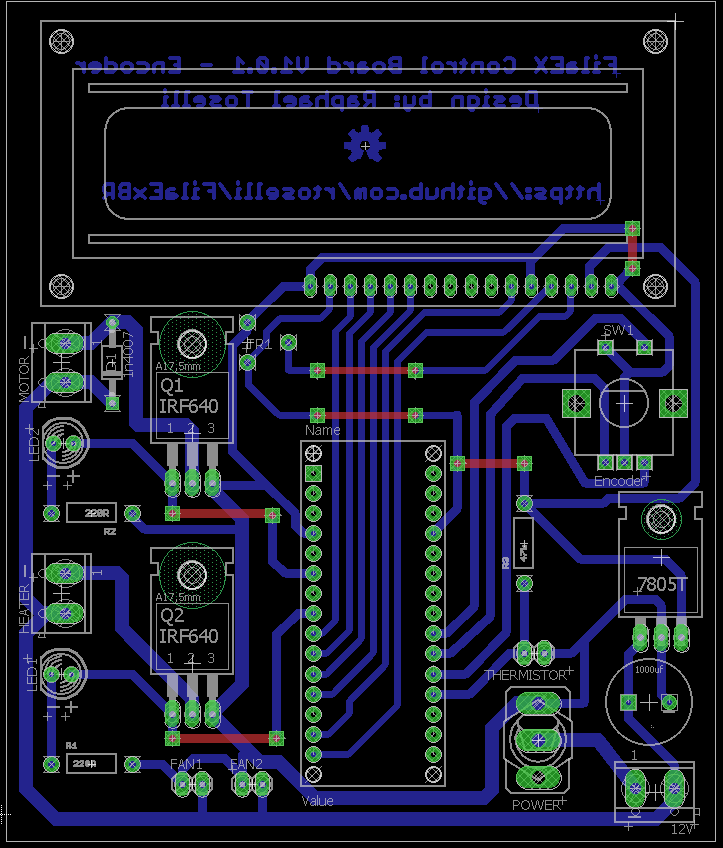
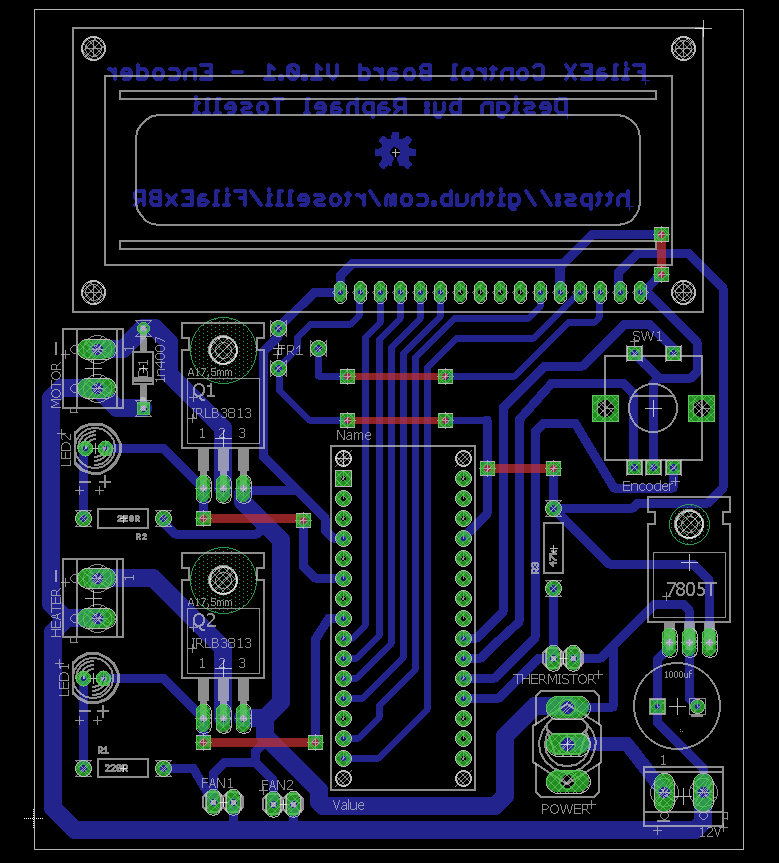
Update board files and readme

diff --git a/README.md b/README.md
@@ -18,6 +18,7 @@ All files in this repository are under the GNU - GPL license, use at your own ri
 ![FilaExBR](/Board/filaex.png?raw=true "FilaExBR")
 
 The top layer routing represent jumpers, no need for a double sided PCB!
+You can see a basic functions video here : https://www.youtube.com/watch?v=0D0GXgb3E8Y
 
 #Bill of materials
 Pin Header 1x2 - 3 
@@ -32,7 +33,7 @@ LED5MM - 2
                                                         
 Switch SPDT - 15A @ 12V - 1 
 
-IRF640 N-Channel Enhancement MOSFET (HEXFET); 200V; 18A; 0,18Ohm  - 2 
+IRLB3813 N-Channel Enhancement MOSFET (HEXFET); 30V; 100A~ - 2 
                               
 R1 - 220R
 
@@ -42,9 +43,9 @@ R3 - 47k
 
 Trimpot 300R
 
-ALPS rotary Encoder EC12E with switch - 1 UN
+ALPS rotary Encoder EC12E with switch - 1
                                                                              
-ARDUINO NANO - 1Un
+ARDUINO NANO - 1
 
-LCD Display HD44780LCD 16X02 - 1 Un
+LCD Display HD44780LCD 16X02 - 1
                                                  
